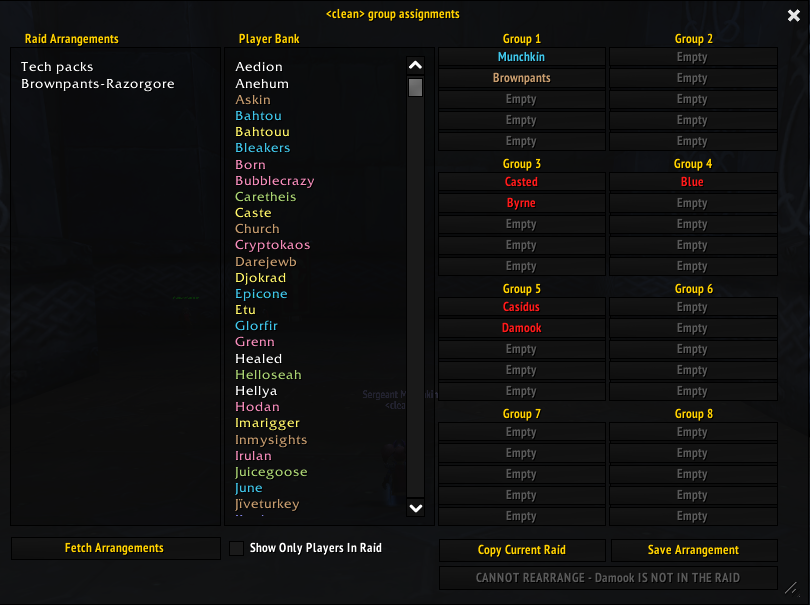
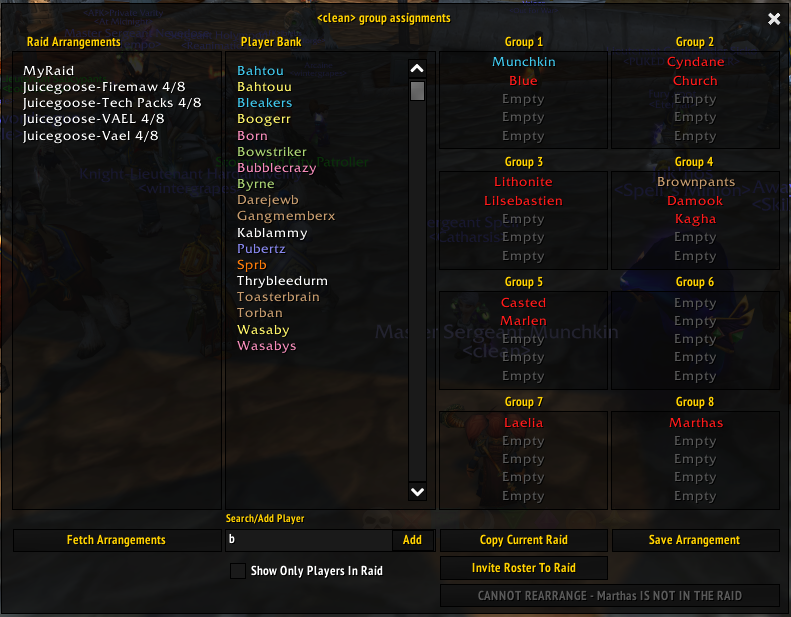
Search bar and invite raid

diff --git a/README.md b/README.md
@@ -14,8 +14,9 @@ Written by Munchkin \<clean\> on Fairbanks-US.
 - Fetch Arrangements will download presets from the raid leader and other raid assistants using the addon.
 - Show Only Players In Raid will limit the player bank to only show players in the current raid group.
 - Copy Current Raid discards the current arrangement if unsaved, replacing it with the current raid arrangement.
+- Invite Roster To Raid will attempt to invite all the players in your current arrangement.
 - REARRANGE RAID will change the groups to reflect your setup.
-
+- Delete arrangements and players from player bank via right click.
 
 
 - /cga list - show list of available presets.
